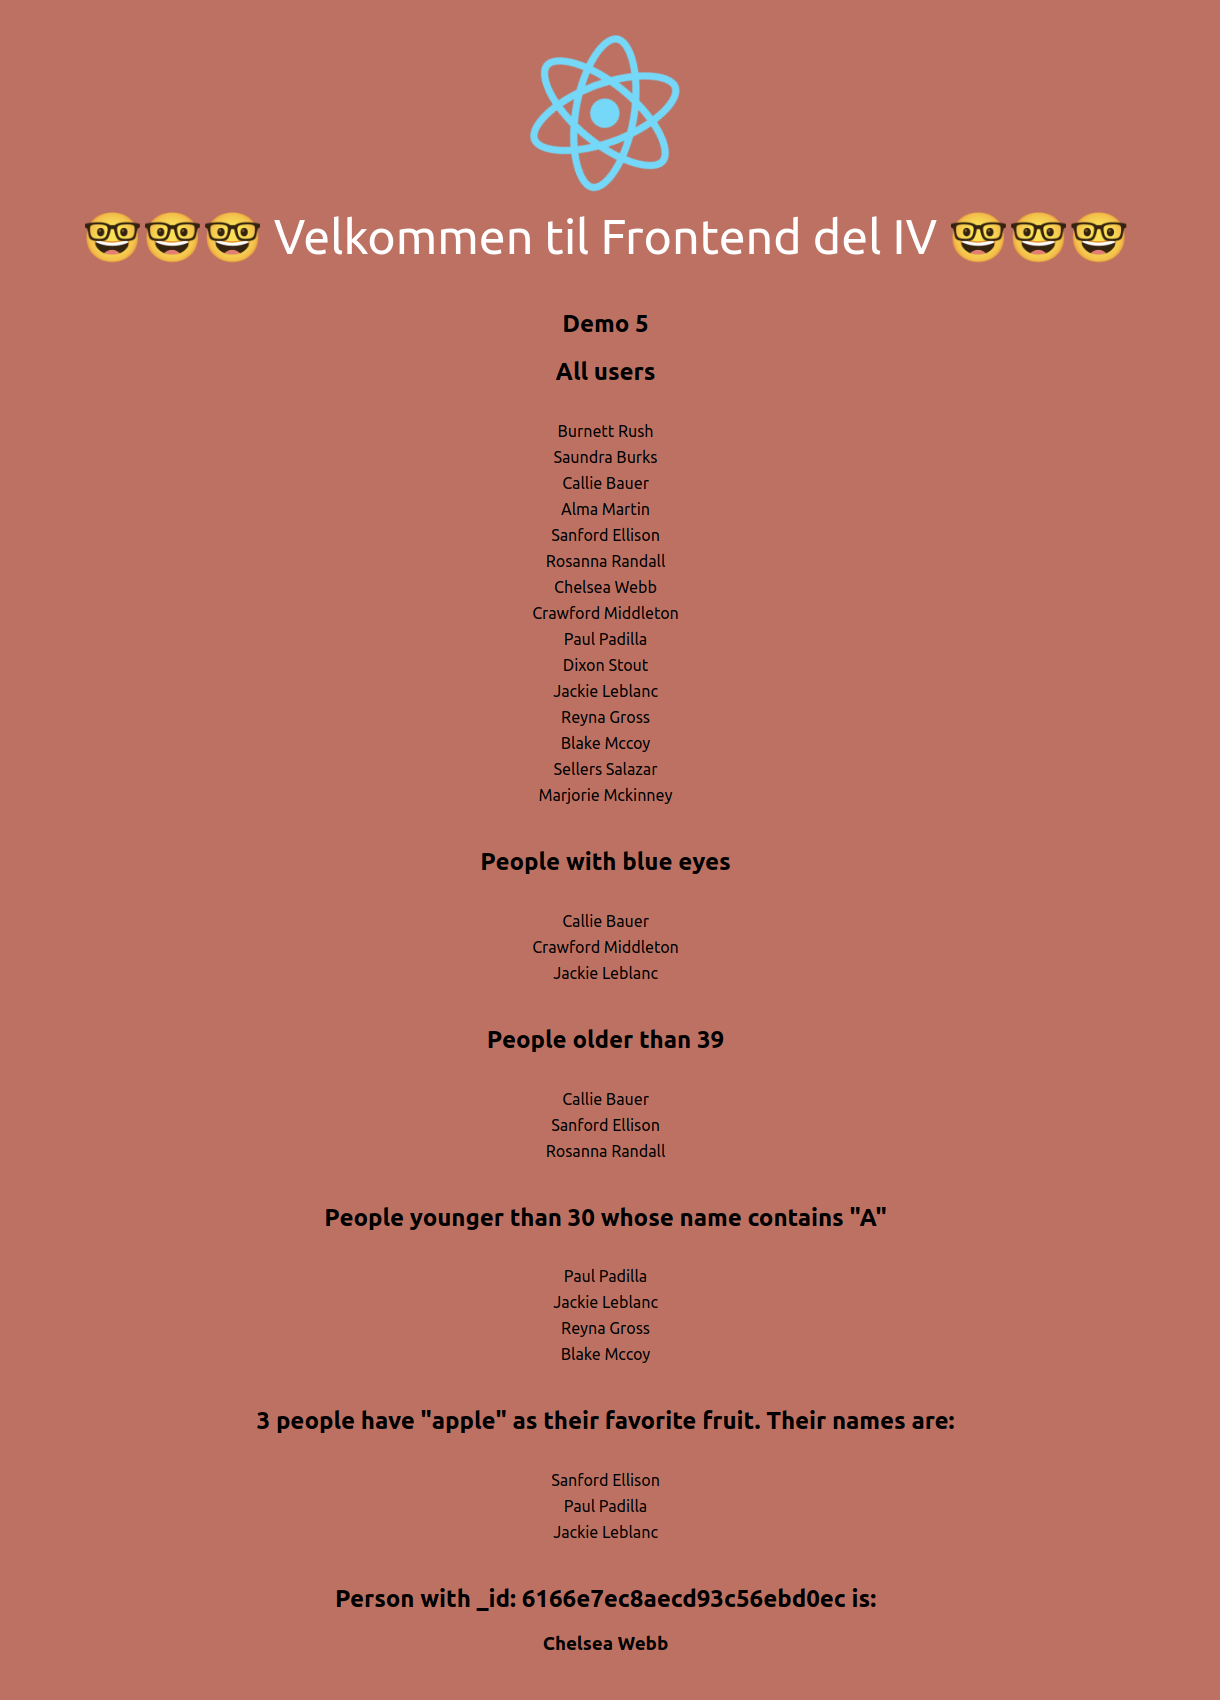
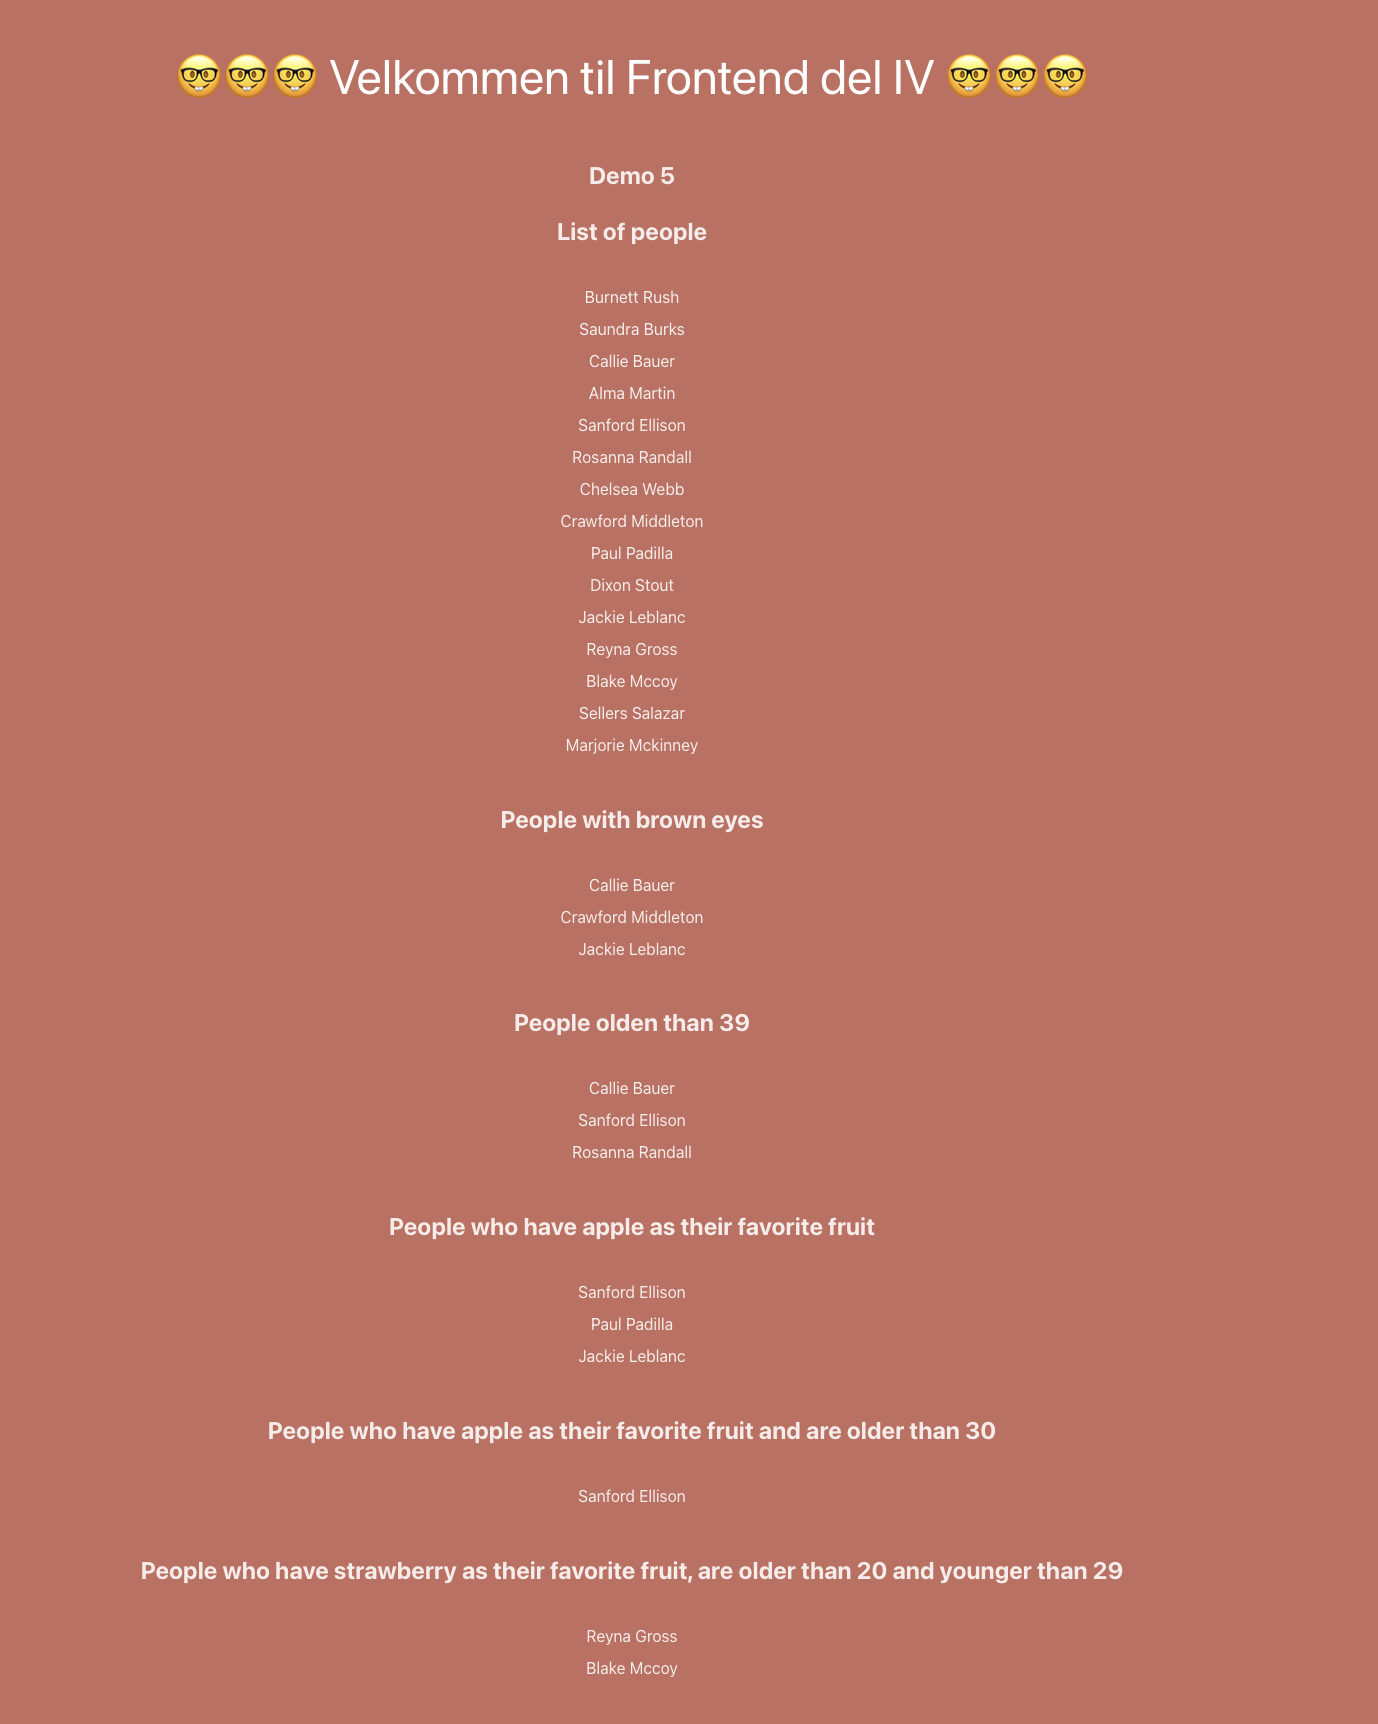
user done

Changed region(s): [[0.0623, 0.0, 0.9344, 0.9976]]

diff --git a/src/components/users-list/UsersList.tsx b/src/components/users-list/UsersList.tsx
@@ -1,20 +1,60 @@
-import { IUser } from '../../api/types';
+import { EyeColor, FavoriteFruit, Gender, IUser } from '../../api/types';
 import './usersList.css';
 
 interface IUsersListProps {
+  eyeColor?: EyeColor;
+  favoriteFruit?: FavoriteFruit;
+  gender?: Gender;
+  minAge?: number;
+  maxAge?: number;
+  title?: string;
   users: IUser[];
 }
 
-// eslint-disable-next-line @typescript-eslint/no-unused-vars
-const UsersList = ({ users }: IUsersListProps) => {
-  const renderAllUsers = () => {
-    return <h3>I should return all users :(</h3>;
+const UsersList = ({
+  eyeColor,
+  favoriteFruit,
+  gender,
+  minAge,
+  maxAge,
+  title = 'List of people',
+  users,
+}: IUsersListProps) => {
+  const renderUsers = () => {
+    let result = users;
+    if (eyeColor) {
+      result = result.filter((user) => user.eyeColor === eyeColor);
+    }
+
+    if (gender) {
+      result = result.filter((user) => user.gender === gender);
+    }
+
+    if (favoriteFruit) {
+      result = result.filter((user) => user.favoriteFruit === favoriteFruit);
+    }
+
+    if (minAge) {
+      result = result.filter((user) => user.age >= minAge);
+    }
+
+    if (maxAge) {
+      result = result.filter((user) => user.age <= maxAge);
+    }
+
+    return (
+      <ul className="list">
+        {result.map((user: IUser) => {
+          return <p key={user._id}>{user.name}</p>;
+        })}
+      </ul>
+    );
   };
 
   return (
     <div>
-      <h2>All users</h2>
-      {renderAllUsers()}
+      <h2>{title}</h2>
+      {renderUsers()}
     </div>
   );
 };

diff --git a/src/App.tsx b/src/App.tsx
@@ -9,6 +9,30 @@ const App: React.FC = () => {
       <Welcome />
       <h2>Demo 5 </h2>
       <UsersList users={users} />
+      <UsersList
+        users={users}
+        eyeColor="brown"
+        title="People with brown eyes"
+      />
+      <UsersList users={users} minAge={39} title="People olden than 39" />
+      <UsersList
+        users={users}
+        favoriteFruit="apple"
+        title="People who have apple as their favorite fruit"
+      />
+      <UsersList
+        users={users}
+        favoriteFruit="apple"
+        minAge={30}
+        title="People who have apple as their favorite fruit and are older than 30"
+      />
+      <UsersList
+        users={users}
+        favoriteFruit="strawberry"
+        minAge={20}
+        maxAge={29}
+        title="People who have strawberry as their favorite fruit, are older than 20 and younger than 29"
+      />
     </div>
   );
 };
